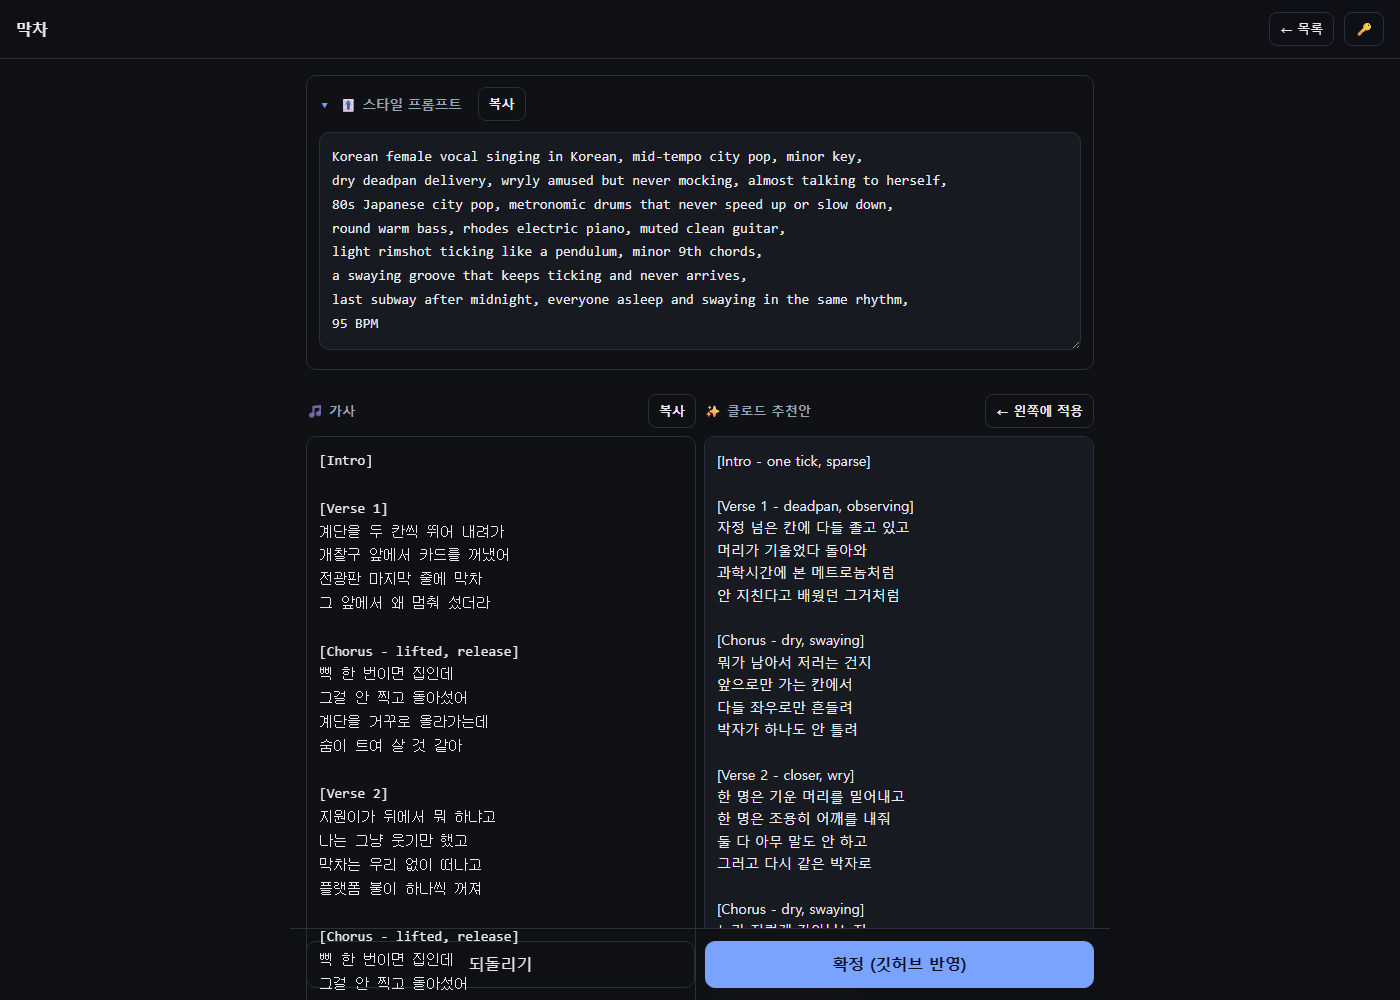
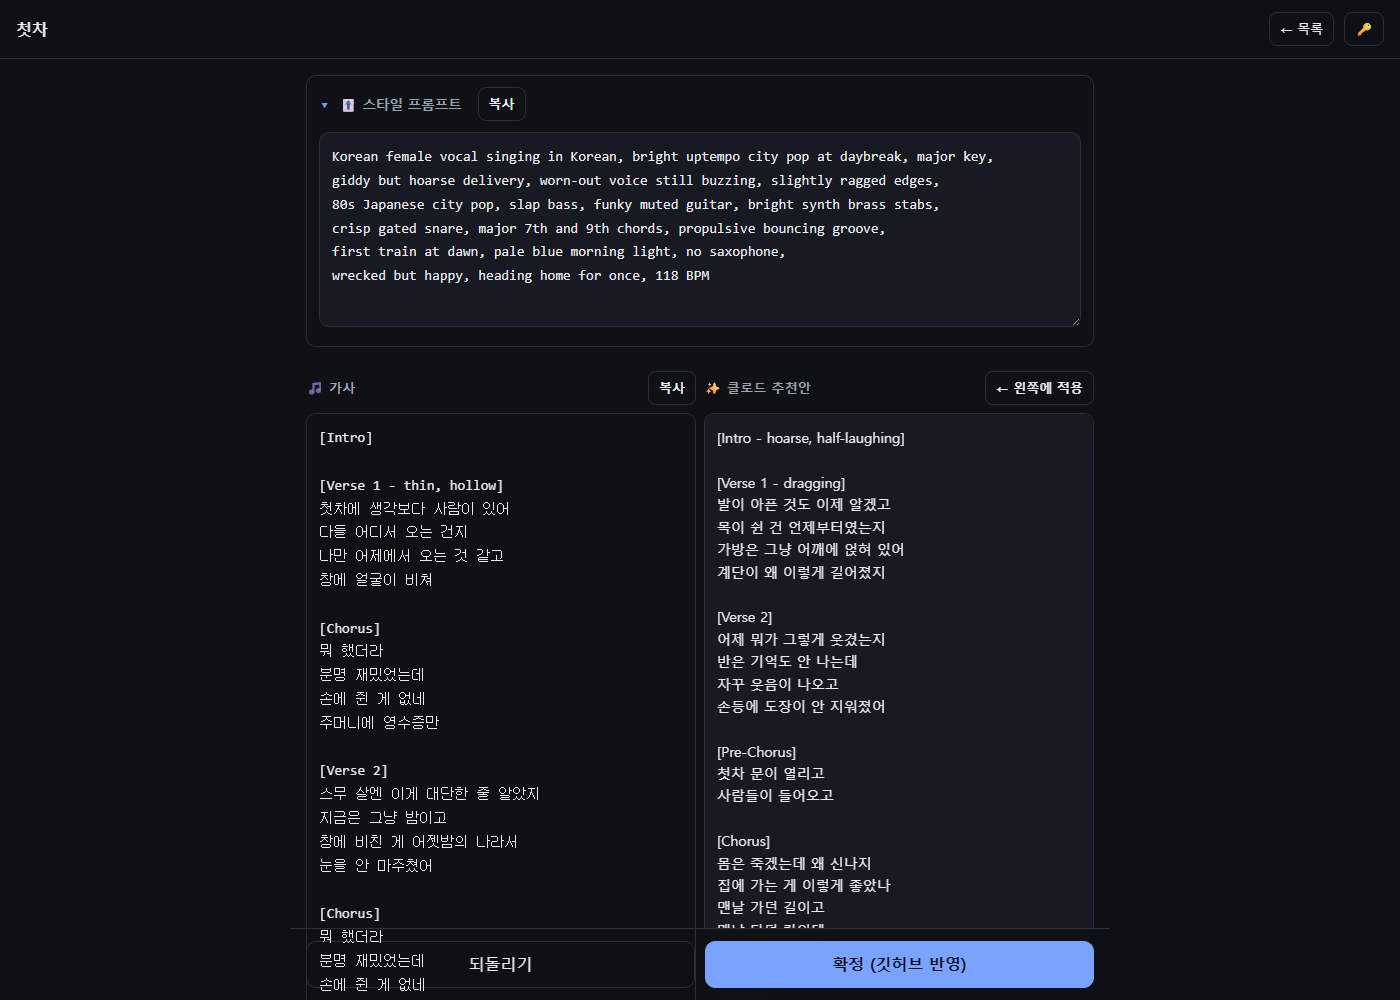
목록에서 곡과 문서를 가른다 + 문서는 읽기 전용 보기
lyrics/ 안의 .md 를 전부 곡처럼 늘어놓고 있었다. 기획·스터디·가이드 문서까지
곡 목록에 섞였고, 그것들엔 가사 블록이 없으니 열면 '가사 블록을 찾지 못했어요'
에러와 빈 편집칸만 뜨는 화면이 나왔다. [확정] 버튼은 그 상태로도 눌렸다.

 - 곡(파일명이 A01_/B01_ 처럼 세트문자+번호로 시작)은 최상단
 - 경계선 아래로 문서. 배경 없는 약한 스타일이라 곡이 먼저 눈에 들어온다
 - 문서 클릭 → viewDoc 읽기 전용. 저장 UI 자체가 없어 덮어쓸 수 없다
   (기획·스터디 문서는 폰에서 읽을 일이 있으므로 지우지 않고 살려둔다)

파일명 규칙으로 가르므로 B세트 곡이 추가돼도 자동으로 곡 쪽에 붙는다.
본문 디코딩은 기존 b64d(UTF-8) 사용 — atob 만 쓰면 한글이 깨진다.

test_list_ui.py 신규: 곡/문서 개수·경계선 노출·세로 순서(곡<경계선<문서)·
한글 본문·저장 UI 부재·깃허브 미전송·곡은 정상 편집 진입까지 폰 폭(420px)에서 검증.

회귀: test_list_ui 전부 통과 / test_compare_ui(첫차) 전부 통과 /
      test_plag_ui 전부 통과 / test_decisions 45건 통과

diff --git a/index.html b/index.html
@@ -39,6 +39,14 @@
   .song b{font-size:16px}
   .song .meta{color:var(--dim);font-size:13px}
   .song .arrow{margin-left:auto;color:var(--dim)}
+  /* 문서는 곡보다 한 단계 죽여서, 목록에서 곡이 먼저 눈에 들어오게 한다 */
+  .song.doc{background:transparent;padding:11px 14px;margin-bottom:6px}
+  .song.doc b{font-size:14px;font-weight:500;color:var(--dim)}
+  .listsep{display:flex;align-items:baseline;gap:8px;margin:26px 0 12px;
+    padding-top:16px;border-top:1px solid var(--line);font-size:13px;color:var(--dim)}
+  .listsep span{font-size:11px;opacity:.65}
+  .docbody{white-space:pre-wrap;word-break:break-word;font-size:14px;line-height:1.75;
+    background:var(--panel);border:1px solid var(--line);border-radius:14px;padding:16px}
   .lbl{display:flex;align-items:center;gap:8px;margin:18px 0 8px;font-size:13px;
     color:var(--dim);font-weight:700;letter-spacing:.02em}
   .lbl .sp{flex:1}
@@ -157,6 +165,15 @@
   <section id="viewList" class="hide">
     <div class="msg info show" id="listMsg"><span class="spin"></span> 불러오는 중…</div>
     <div id="songs"></div>
+    <!-- 곡이 아닌 문서(기획·스터디·가이드)는 경계선 아래로 내린다 -->
+    <div id="docsSep" class="listsep hide">📄 문서 <span>읽기 전용 · 가사 아님</span></div>
+    <div id="docs"></div>
+  </section>
+
+  <!-- 문서 읽기 전용 -->
+  <section id="viewDoc" class="hide">
+    <div class="msg" id="docMsg"></div>
+    <pre id="docText" class="docbody"></pre>
   </section>
 
   <!-- 편집 -->
@@ -217,9 +234,21 @@ function b64e(str){
   return btoa(bin);
 }
 function show(view){
-  ['viewToken','viewList','viewEdit'].forEach(v=>$('#'+v).classList.add('hide'));
+  ['viewToken','viewList','viewEdit','viewDoc'].forEach(v=>$('#'+v).classList.add('hide'));
   $('#'+view).classList.remove('hide');
-  $('#btnBack').style.display = view==='viewEdit' ? '' : 'none';
+  $('#btnBack').style.display = (view==='viewEdit'||view==='viewDoc') ? '' : 'none';
+}
+
+/* 문서는 읽기만 한다 — 저장 UI 없음. 폰에서 기획·스터디 문서를 보려고 여는 자리다. */
+async function openDoc(f){
+  show('viewDoc'); $('#hdr').textContent=f.name.replace(/\.md$/,'').replace(/_/g,' ');
+  $('#docText').textContent='';
+  msg($('#docMsg'),'<span class="spin"></span> 불러오는 중…','info');
+  try{
+    const d=await gh(`/repos/${OWNER}/${REPO}/contents/${f.path}?ref=main`);
+    hideMsg($('#docMsg'));
+    $('#docText').textContent=b64d(d.content);
+  }catch(e){ msg($('#docMsg'),'오류: '+e.message,'err'); }
 }
 function msg(el,text,kind){
   el.className='msg show '+(kind||'info'); el.innerHTML=text;
@@ -307,15 +336,33 @@ async function loadList(){
                   .sort((a,b)=>a.name.localeCompare(b.name,'ko'));
     if(!md.length){ msg($('#listMsg'),'가사 파일이 없어요.','err'); return; }
     hideMsg($('#listMsg'));
-    $('#songs').innerHTML='';
-    md.forEach(f=>{
+    $('#songs').innerHTML=''; $('#docs').innerHTML='';
+
+    /* 곡은 `A01_네온.md` 처럼 세트문자+번호로 시작한다. 그 밖(기획·스터디·가이드)은 문서.
+       예전엔 lyrics/ 안의 .md 를 전부 곡처럼 늘어놔서, 가사 블록이 없는 문서를 열면
+       "가사 블록을 찾지 못했어요" 만 뜨는 빈 화면이 나왔다. */
+    const isSong = n => /^[A-Z]\d+_/.test(n);
+    const songs = md.filter(f=>isSong(f.name));
+    const docs  = md.filter(f=>!isSong(f.name));
+
+    songs.forEach(f=>{
       const title=f.name.replace(/\.md$/,'');
       const b=document.createElement('button');
       b.className='song';
-      b.innerHTML=`<div><b>${title.replace(/^A\d+_/,'')}</b>
-        <div class="meta">${title.split('_')[0]||''}</div></div><span class="arrow">›</span>`;
+      b.innerHTML=`<div><b>${escHtml(title.replace(/^[A-Z]\d+_/,''))}</b>
+        <div class="meta">${escHtml(title.split('_')[0]||'')}</div></div><span class="arrow">›</span>`;
       b.onclick=()=>openSong(f);
       $('#songs').appendChild(b);
+    });
+
+    $('#docsSep').classList.toggle('hide', !docs.length);
+    docs.forEach(f=>{
+      const title=f.name.replace(/\.md$/,'');
+      const b=document.createElement('button');
+      b.className='song doc';
+      b.innerHTML=`<div><b>${escHtml(title.replace(/_/g,' '))}</b></div><span class="arrow">›</span>`;
+      b.onclick=()=>openDoc(f);
+      $('#docs').appendChild(b);
     });
   }catch(e){
     if(String(e.message).startsWith('401')||String(e.message).startsWith('404')){

diff --git a/test_list_ui.py b/test_list_ui.py
@@ -1,0 +1,107 @@
+# 목록 분리 스모크 — 곡은 위, 문서는 경계선 아래, 문서는 읽기 전용으로 열린다
+#   python test_list_ui.py [출력폴더]
+import base64, json, sys, threading, http.server, functools, socketserver
+from pathlib import Path
+from urllib.parse import unquote
+from playwright.sync_api import sync_playwright
+
+HERE = Path(__file__).parent
+outdir = Path(sys.argv[1]) if len(sys.argv) > 1 else HERE / "_listtest"
+outdir.mkdir(exist_ok=True)
+
+SONGS = ["A01_네온.md", "A07_첫차.md", "B01_주말에.md"]
+DOCS  = ["기획_첫차_일탈.md", "작사_스터디_2차_5팀.md", "메타태그_다이내믹_가이드.md"]
+DOC_BODY = "# 기획 — 첫차\n\n한글이 깨지지 않아야 한다 · 토요일 아침\n"
+SONG_BODY = "**Style of Music:**\n```\ntest style\n```\n\n## 가사\n\n```\n[Verse]\n테스트 가사\n```\n"
+
+b64 = lambda s: base64.b64encode(s.encode()).decode()
+Handler = functools.partial(http.server.SimpleHTTPRequestHandler, directory=str(HERE))
+Handler.log_message = lambda *a, **k: None
+srv = socketserver.TCPServer(("127.0.0.1", 0), Handler)
+threading.Thread(target=srv.serve_forever, daemon=True).start()
+PORT = srv.server_address[1]
+CORS = {"Access-Control-Allow-Origin": "*", "Access-Control-Allow-Headers": "*",
+        "Access-Control-Allow-Methods": "GET,PUT,OPTIONS"}
+puts = []
+
+def handle(route, request):
+    if request.method == "OPTIONS":
+        return route.fulfill(status=204, headers=CORS)
+    if request.method == "PUT":
+        puts.append(json.loads(request.post_data))
+        return route.fulfill(status=200, headers=CORS, content_type="application/json",
+                             body=json.dumps({"content": {"sha": "s2"}}))
+    u = request.url
+    if u.rstrip("/").endswith("contents/lyrics"):
+        body = json.dumps([{"name": n, "path": "lyrics/" + n, "type": "file"}
+                           for n in SONGS + DOCS])
+    elif "_plag_index.json" in u:
+        idx = json.dumps({"n": 2, "songs": [], "hashes": {}})
+        if "vnd.github.raw" in (request.headers.get("accept") or ""):
+            return route.fulfill(status=200, headers=CORS,
+                                 content_type="application/json", body=idx)
+        body = json.dumps({"sha": "s", "content": b64(idx)})
+    else:
+        # 한글 파일명은 URL 인코딩돼서 오므로 디코드 후 비교한다
+        is_doc = any(d in unquote(u) for d in DOCS)
+        body = json.dumps({"sha": "s", "content": b64(DOC_BODY if is_doc else SONG_BODY)})
+    route.fulfill(status=200, headers=CORS, content_type="application/json", body=body)
+
+fails = []
+def check(c, label):
+    print(("  [OK] " if c else "  [FAIL] ") + label)
+    if not c: fails.append(label)
+
+with sync_playwright() as p:
+    b = p.chromium.launch()
+    ctx = b.new_context(viewport={"width": 420, "height": 900})   # 폰 폭
+    ctx.add_init_script("localStorage.setItem('yein_tok','test-token')")
+    ctx.route("**api.github.com/**", handle)
+    pg = ctx.new_page()
+    errs = []
+    pg.on("pageerror", lambda e: errs.append(str(e)))
+    pg.goto(f"http://127.0.0.1:{PORT}/index.html")
+    pg.wait_for_selector("#songs button", timeout=15000)
+
+    print("\n[1] 곡과 문서가 갈라지는가")
+    check(not errs, f"JS 에러 없음 {errs[:2]}")
+    n_song, n_doc = pg.locator("#songs button").count(), pg.locator("#docs button").count()
+    check(n_song == len(SONGS), f"곡 {n_song}개 (기대 {len(SONGS)})")
+    check(n_doc == len(DOCS), f"문서 {n_doc}개 (기대 {len(DOCS)})")
+    check(pg.locator("#docsSep:not(.hide)").count() == 1, "경계선 노출")
+    songs_txt = pg.locator("#songs").inner_text()
+    check(all(d.replace(".md", "").replace("_", " ") not in songs_txt for d in DOCS),
+          "문서가 곡 목록에 섞이지 않음")
+
+    print("\n[2] 곡이 문서보다 위에 있는가")
+    y_song = pg.locator("#songs button").first.bounding_box()["y"]
+    y_sep  = pg.locator("#docsSep").bounding_box()["y"]
+    y_doc  = pg.locator("#docs button").first.bounding_box()["y"]
+    check(y_song < y_sep < y_doc, f"곡({y_song:.0f}) < 경계선({y_sep:.0f}) < 문서({y_doc:.0f})")
+    pg.screenshot(path=str(outdir / "1_목록.png"), full_page=True)
+
+    print("\n[3] 문서는 읽기 전용으로 열리는가")
+    pg.locator("#docs button").first.click()
+    pg.wait_for_selector("#viewDoc:not(.hide)", timeout=10000)
+    pg.wait_for_timeout(600)
+    body = pg.locator("#docText").inner_text()
+    check("토요일 아침" in body, "한글 본문이 안 깨짐")
+    check(pg.locator("#docMsg.show").count() == 0, "'가사 블록을 찾지 못했어요' 에러 없음")
+    check(pg.locator("#viewEdit.hide").count() == 1, "편집 화면이 안 뜸")
+    check(pg.locator("#btnCommit:visible").count() == 0, "[확정] 버튼 없음 (저장 불가)")
+    check(len(puts) == 0, "깃허브에 아무것도 안 보냄")
+    pg.screenshot(path=str(outdir / "2_문서보기.png"), full_page=False)
+
+    print("\n[4] 곡은 그대로 편집 화면으로 가는가")
+    pg.click("#btnBack"); pg.wait_for_selector("#songs button", timeout=10000)
+    pg.locator("#songs button").first.click()
+    pg.wait_for_selector("#taLyrics", timeout=10000)
+    pg.wait_for_timeout(800)
+    check("테스트 가사" in pg.locator("#taLyrics").input_value(), "곡은 가사가 편집칸에 들어옴")
+    check(not errs, f"끝까지 JS 에러 없음 {errs[:2]}")
+    b.close()
+
+srv.shutdown()
+print(f"\n스크린샷: {outdir}")
+print(f"결과: {'전부 통과' if not fails else str(len(fails))+'건 실패 → '+str(fails)}")
+sys.exit(1 if fails else 0)
